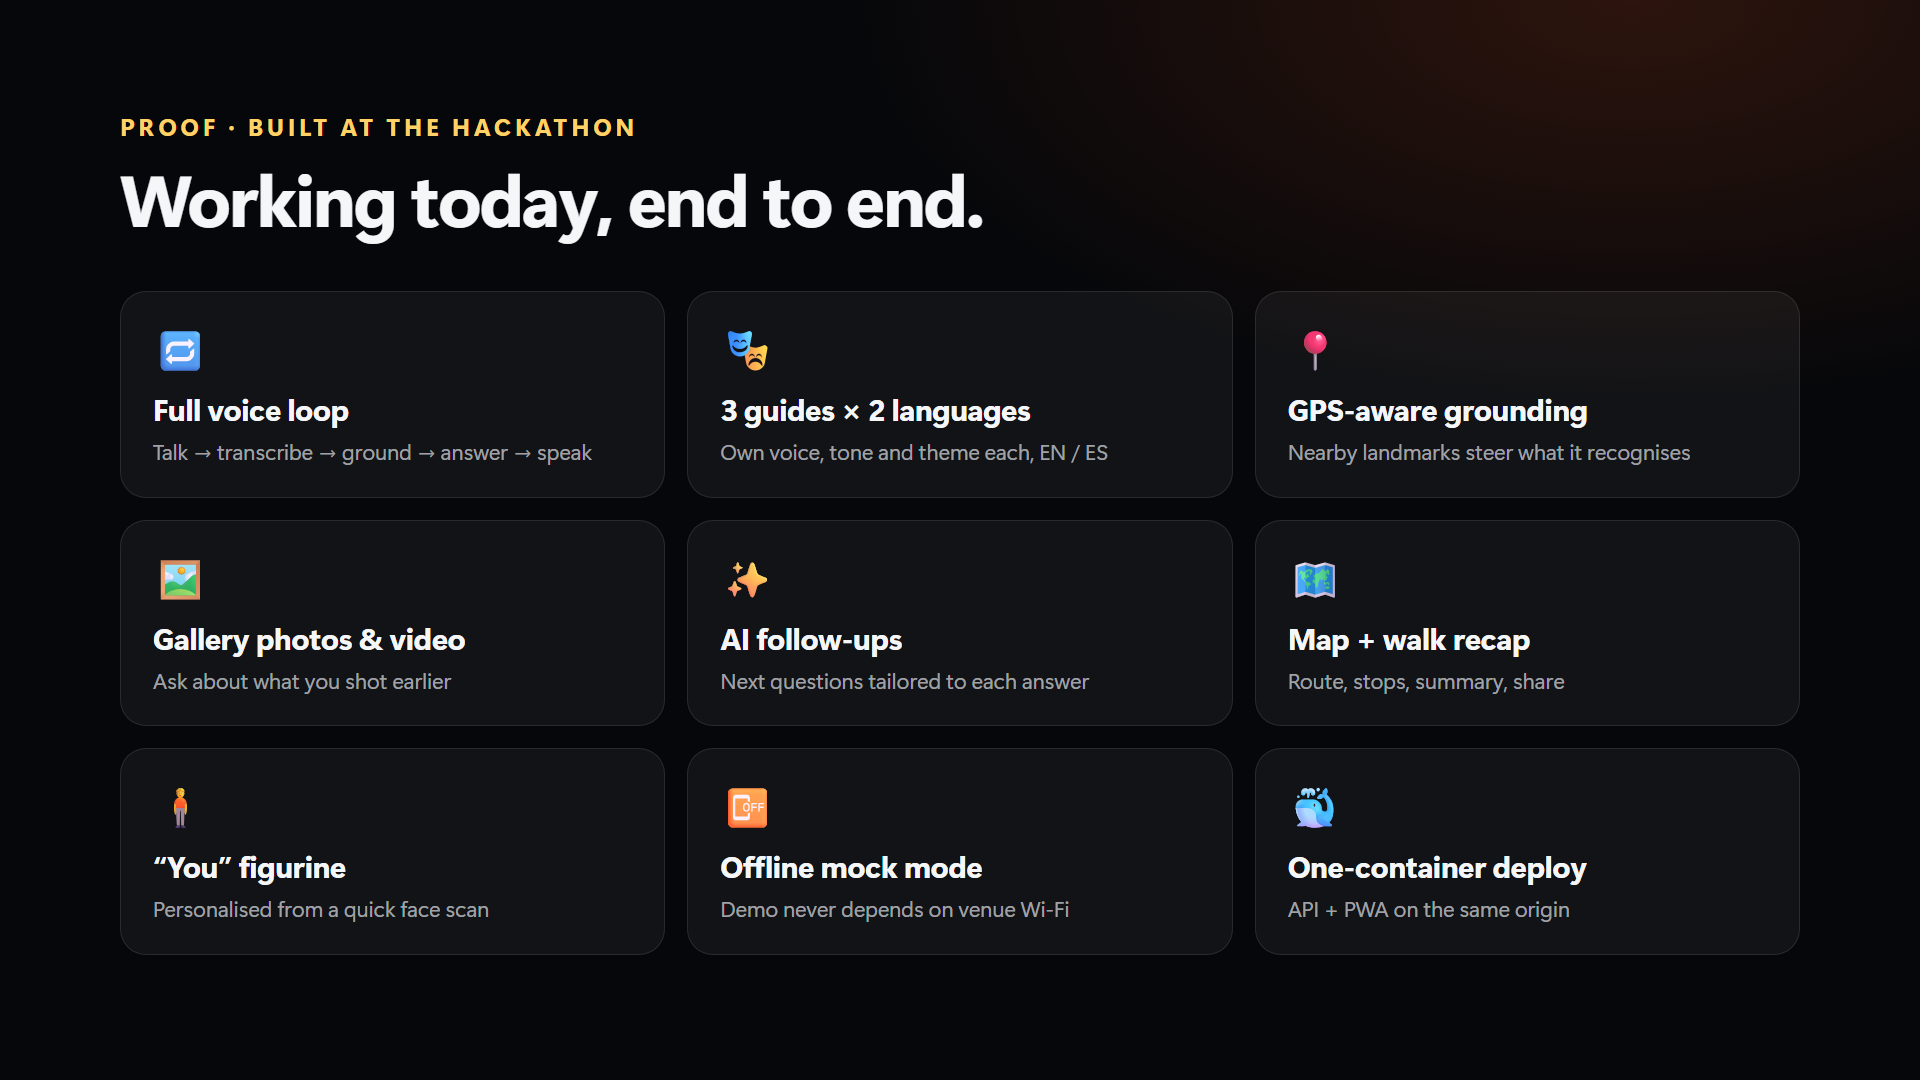
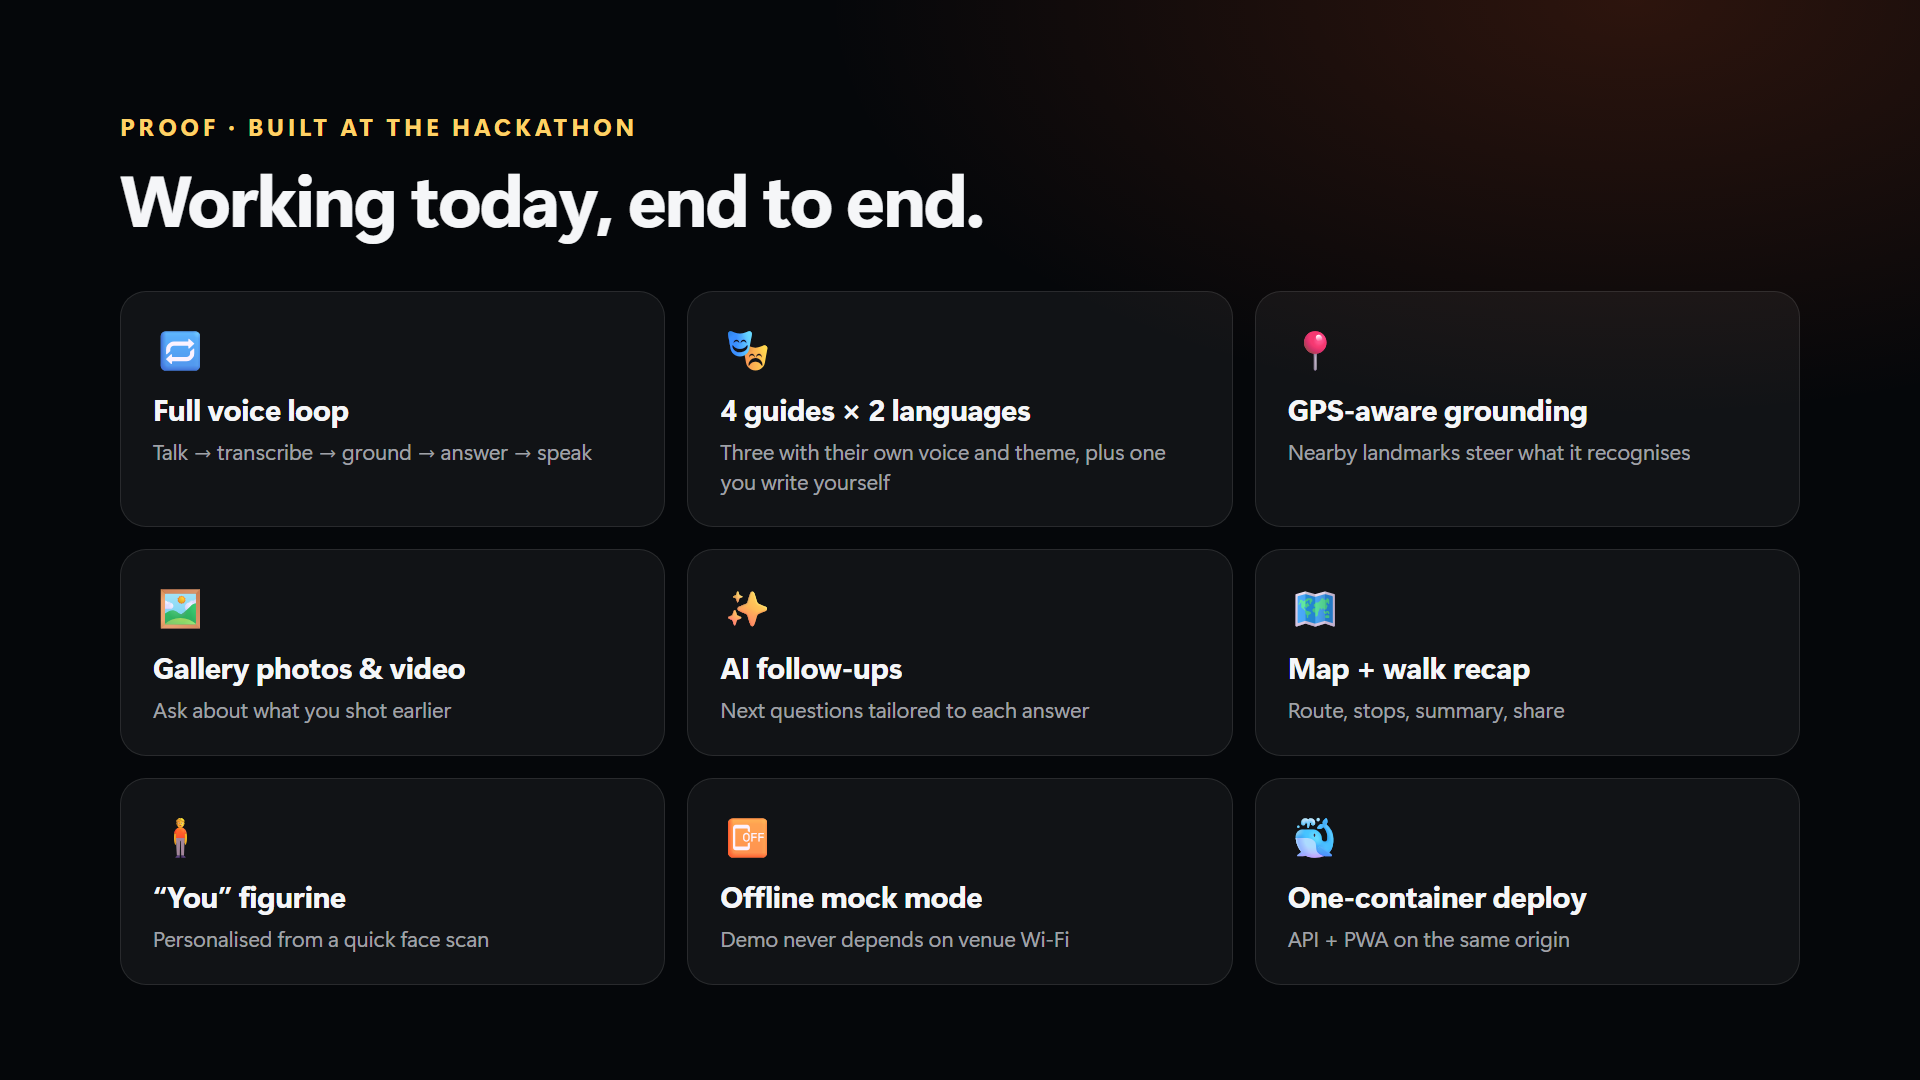
docs(deck): refresh screenshots with the live map and the You guide
- Recaptured the app from current main in mock mode: live MapLibre street
  map (GPS faked at the Temple Bar dragon marker), guide picker with the
  'You' guide and a written style, plus per-guide figurine images.
- Capture script: software WebGL, geolocation override, element shots for
  figurines, chip-agnostic follow-ups, longer waits for map tiles.
- Persona slide: fifth card for Your Guide; figurines use the element
  shots instead of coordinate crops. Proof slide: 4 guides. Walk slide:
  live street map that follows your GPS. Speaker notes updated.

diff --git a/docs/deck/index.html b/docs/deck/index.html
@@ -15,7 +15,7 @@
   --bg: #05070a; --ink: #f5f6f8; --ink-2: rgba(235,238,245,.66); --ink-3: rgba(235,238,245,.4);
   --hair: rgba(255,255,255,.1); --glass: rgba(255,255,255,.05);
   --gold: #ffd166; --brand: #ff5a1f;
-  --child: #f5a524; --architect: #0091ff; --historian: #b4532a;
+  --child: #f5a524; --architect: #0091ff; --historian: #b4532a; --you: #7c5cff;
   --font: "SF Pro Display", -apple-system, "Segoe UI Variable Display", "Segoe UI", Inter, system-ui, sans-serif;
   --ease: cubic-bezier(.2,.8,.2,1);
 }
@@ -53,12 +53,9 @@ h2 em, h1 em { font-style: normal; color: var(--gold); }
 .phone.sm { width: 312px; height: 675px; border-radius: 44px; padding: 8px; }
 .phone.sm img { border-radius: 36px; }
 
-/* figurine crops from the real guide picker screenshot (780x1688 @2x) */
-.fig { width: 96px; height: 96px; border-radius: 50%; flex: none; background: url(../design/appllama/implemented/onboarding.png) no-repeat;
-  background-size: 780px 1688px; box-shadow: 0 0 0 3px var(--c), 0 0 30px color-mix(in srgb, var(--c) 40%, transparent); }
-.fig.child { background-position: -59px -762px; }
-.fig.architect { background-position: -59px -941px; }
-.fig.historian { background-position: -59px -1108px; }
+/* guide figurines: element screenshots from the real guide picker (implemented/fig-*.png) */
+.fig { width: 84px; height: 84px; border-radius: 50%; flex: none; object-fit: cover; background: #15171c;
+  box-shadow: 0 0 0 3px var(--c), 0 0 30px color-mix(in srgb, var(--c) 40%, transparent); }
 
 /* ---------- 1 · title ---------- */
 .s1 { --gx: 75%; --gy: 40%; --glow: rgba(255,90,31,.22); }
@@ -97,15 +94,18 @@ h2 em, h1 em { font-style: normal; color: var(--gold); }
 
 /* ---------- 4 · personas ---------- */
 .s4 { --gx: 50%; --gy: 0%; --glow: rgba(255,209,102,.12); }
-.people { display: grid; grid-template-columns: repeat(4, 1fr); gap: 24px; margin-top: 56px; position: relative; }
-.person { padding: 30px; border-radius: 30px; background: var(--glass); border: 1px solid var(--hair); display: flex; flex-direction: column; min-height: 520px; }
-.person .who { font-size: 22px; font-weight: 700; letter-spacing: .08em; text-transform: uppercase; color: var(--ink-3); }
-.person .q { font-size: 30px; font-weight: 600; line-height: 1.25; margin-top: 14px; letter-spacing: -0.015em; }
-.person .guide { display: flex; align-items: center; gap: 18px; margin-top: 30px; padding-top: 26px; border-top: 1px solid var(--hair); }
-.person .guide b { display: block; font-size: 28px; color: var(--c); }
-.person .guide span { display: block; font-size: 21px; color: var(--ink-3); margin-top: 4px; }
-.person .a { margin-top: 24px; font-size: 25px; line-height: 1.4; color: var(--ink-2); font-style: italic; }
+.people { display: grid; grid-template-columns: repeat(5, 1fr); gap: 20px; margin-top: 52px; position: relative; }
+.person { padding: 26px; border-radius: 28px; background: var(--glass); border: 1px solid var(--hair); display: flex; flex-direction: column; min-height: 560px; }
+.person .who { font-size: 19px; font-weight: 700; letter-spacing: .08em; text-transform: uppercase; color: var(--ink-3); }
+.person .q { font-size: 26px; font-weight: 600; line-height: 1.25; margin-top: 14px; letter-spacing: -0.015em; }
+.person .guide { display: flex; align-items: center; gap: 14px; margin-top: auto; padding-top: 24px; border-top: 1px solid var(--hair); }
+.person .guide b { display: block; font-size: 24px; color: var(--c); }
+.person .guide span { display: block; font-size: 18px; color: var(--ink-3); margin-top: 4px; }
+.person .a { margin-top: 20px; min-height: 150px; font-size: 21px; line-height: 1.4; color: var(--ink-2); font-style: italic; }
 .person .a::before { content: "🔊 "; font-style: normal; }
+.person .a.note { font-style: normal; }
+.person .a.note::before { content: "✍ "; }
+.person.you { border-color: rgba(124,92,255,.5); }
 .person.es { border-color: rgba(255,209,102,.35); }
 
 /* ---------- 5 · three steps ---------- */
@@ -283,34 +283,40 @@ h2 em, h1 em { font-style: normal; color: var(--gold); }
 <!-- 4 · WHO: personas -->
 <section class="slide s4">
   <div class="kicker b">Who · personas</div>
-  <h2 class="b" style="--i:1">Same dragon. Four travellers. Four ways to hear it.</h2>
+  <h2 class="b" style="--i:1">Same dragon. Every traveller hears it their way.</h2>
   <div class="people">
     <div class="person b" style="--i:2; --c: var(--child)">
       <div class="who">The 8-year-old</div>
       <div class="q">“Why is the dragon holding a shield?”</div>
-      <div class="guide"><div class="fig child" style="--c: var(--child)"></div><div><b>Little Soldier</b><span>Playful, short, full of wonder</span></div></div>
+      <div class="guide"><img class="fig" src="../design/appllama/implemented/fig-child.png" alt=""><div><b>Little Soldier</b><span>Playful, short, full of wonder</span></div></div>
       <div class="a">Look! The dragon is holding a shield because it guards the City of London!</div>
     </div>
     <div class="person b" style="--i:3; --c: var(--architect)">
       <div class="who">The architecture student</div>
       <div class="q">“What am I actually looking at?”</div>
-      <div class="guide"><div class="fig architect" style="--c: var(--architect)"></div><div><b>The Architect</b><span>Structure, materials, intent</span></div></div>
+      <div class="guide"><img class="fig" src="../design/appllama/implemented/fig-architect.png" alt=""><div><b>The Architect</b><span>Structure, materials, intent</span></div></div>
       <div class="a">The dragon holds a shield — it is the heraldic emblem of the City of London.</div>
     </div>
     <div class="person b" style="--i:4; --c: var(--historian)">
       <div class="who">The history buff</div>
       <div class="q">“Who put it there, and why?”</div>
-      <div class="guide"><div class="fig historian" style="--c: var(--historian)"></div><div><b>The Historian</b><span>Dates, patrons, why it matters</span></div></div>
+      <div class="guide"><img class="fig" src="../design/appllama/implemented/fig-historian.png" alt=""><div><b>The Historian</b><span>Dates, patrons, why it matters</span></div></div>
       <div class="a">This dragon is the guardian of the City; the shield recalls its historic patronage.</div>
     </div>
     <div class="person es b" style="--i:5; --c: var(--gold)">
       <div class="who">The visitor abroad</div>
       <div class="q">“¿Qué es ese dragón?”</div>
-      <div class="guide"><div class="fig child" style="--c: var(--gold)"></div><div><b>Any guide, en Español</b><span>Asks and hears it in Spanish</span></div></div>
+      <div class="guide"><img class="fig" src="../design/appllama/implemented/fig-child.png" alt=""><div><b>Any guide, en Español</b><span>Asks and hears it in Spanish</span></div></div>
       <div class="a">¡Mira! El dragón sostiene un escudo porque protege la City de Londres.</div>
     </div>
+    <div class="person you b" style="--i:6; --c: var(--you)">
+      <div class="who">Anyone, their way</div>
+      <div class="q">“Explain it like a football commentator.”</div>
+      <div class="guide"><img class="fig" src="../design/appllama/implemented/fig-you.png" alt=""><div><b>Your Guide</b><span>You write how it answers</span></div></div>
+      <div class="a note">Your note sets the tone. It can’t change the facts or the rules.</div>
+    </div>
   </div>
-  <div class="foot b" style="--i:7"><span>Same facts, retold per persona · EN / ES</span><span>Sample answers from the app</span></div>
+  <div class="foot b" style="--i:8"><span>Same facts, retold per persona · EN / ES</span><span>Sample answers from the app</span></div>
 </section>
 
 <!-- 5 · WHAT: three steps -->
@@ -345,7 +351,7 @@ h2 em, h1 em { font-style: normal; color: var(--gold); }
     <h2 class="b" style="--i:1">Every question becomes a stop on your walk.</h2>
     <div class="list">
       <div class="b" style="--i:2">Nearest landmark and distance, always on screen <span>· tap for the map</span></div>
-      <div class="b" style="--i:3">Your route drawn as you ask <span>· GPS-aware answers</span></div>
+      <div class="b" style="--i:3">A live street map that follows your GPS <span>· with your route</span></div>
       <div class="b" style="--i:4">A recap page at the end <span>· stats, timeline, the guide's summary</span></div>
       <div class="b" style="--i:5">Share my walk <span>· the takeaway</span></div>
     </div>
@@ -406,7 +412,7 @@ h2 em, h1 em { font-style: normal; color: var(--gold); }
   <h2 class="b" style="--i:1">Working today, end to end.</h2>
   <div class="tiles">
     <div class="tile b" style="--i:2"><div class="ico">🔁</div><b>Full voice loop</b><p>Talk → transcribe → ground → answer → speak</p></div>
-    <div class="tile b" style="--i:3"><div class="ico">🎭</div><b>3 guides × 2 languages</b><p>Own voice, tone and theme each, EN / ES</p></div>
+    <div class="tile b" style="--i:3"><div class="ico">🎭</div><b>4 guides × 2 languages</b><p>Three with their own voice and theme, plus one you write yourself</p></div>
     <div class="tile b" style="--i:4"><div class="ico">📍</div><b>GPS-aware grounding</b><p>Nearby landmarks steer what it recognises</p></div>
     <div class="tile b" style="--i:5"><div class="ico">🖼</div><b>Gallery photos & video</b><p>Ask about what you shot earlier</p></div>
     <div class="tile b" style="--i:6"><div class="ico">✨</div><b>AI follow-ups</b><p>Next questions tailored to each answer</p></div>

diff --git a/docs/deck.md b/docs/deck.md
@@ -42,14 +42,17 @@ highlighted."
 ---
 
 ## 4 — Who · personas
-On screen: *Same dragon. Four travellers. Four ways to hear it.* The 8-year-old → Little
+On screen: *Same dragon. Every traveller hears it their way.* The 8-year-old → Little
 Soldier · the architecture student → The Architect · the history buff → The Historian ·
-the visitor abroad → any guide in Español. Each card has the traveller's question and the
-guide's sample answer (from the app's mock answers).
+the visitor abroad → any guide in Español · anyone, their way → **Your Guide** (you write
+how it answers, e.g. "explain it like a football commentator"). Each card has the
+traveller's question and the guide's sample answer (from the app's mock answers); the
+Your Guide card explains that the note sets the tone but can't change the facts.
 
 **Say:** "The same facts land differently for different people. A child wants wonder, a
 student wants materials and intent, a history buff wants patrons and dates, and a visitor
-wants it in their own language. You pick a guide; each has its own voice, tone and look."
+wants it in their own language. And if none of those fit, you write your own guide: tell
+it how to answer, and it does, without changing the facts."
 
 ---
 
@@ -74,10 +77,11 @@ for this answer let you dig in with one tap."
 ---
 
 ## 7 — What · the walk
-On screen: *Every question becomes a stop on your walk.* Nearest-landmark widget · route ·
-recap page · Share my walk; map and recap screens.
+On screen: *Every question becomes a stop on your walk.* Nearest-landmark widget · live
+street map that follows your GPS · recap page · Share my walk; map and recap screens.
 
-**Say:** "Every question becomes a stop. The map shows your route, and at the end the recap
+**Say:** "Every question becomes a stop. A live street map follows your GPS and draws your
+route, and at the end the recap
 gives you stats, a timeline and your guide's summary, ready to share. That's what you take
 home."
 
@@ -141,7 +145,7 @@ end-to-end latency yet; don't quote a number we haven't measured.
 ---
 
 ## 11 — Proof · built at the hackathon
-On screen: full voice loop · 3 guides × 2 languages · GPS-aware grounding · gallery
+On screen: full voice loop · 4 guides (incl. one you write) × 2 languages · GPS-aware grounding · gallery
 photos & video · AI follow-ups · map + walk recap · "You" figurine from a face scan ·
 offline mock mode · one-container deploy.
 
